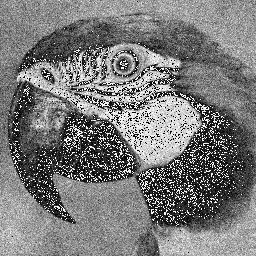
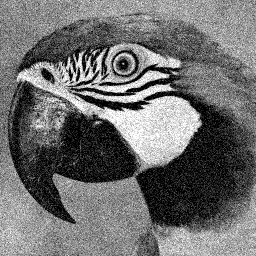
fix: clip image value before saving the noisy image

diff --git a/tests/visualize_output.py b/tests/visualize_output.py
@@ -33,9 +33,10 @@ def read_noise_file(file_path):
     # de-quantization
     # Note: the de-quantized image will be a little bit different from the original noise image
     image_np = (image_np.astype(np.float32) - INPUT_ZERO_POINT) * INPUT_SCALE
+    image_np = np.clip(image_np, 0.0, 1.0)
 
     # Save the noise image
-    Image.fromarray((image_np * 255).astype(np.uint8), mode="L").save(NOISE_IMAGE_PATH)
+    Image.fromarray((image_np * 255).round().astype(np.uint8), mode="L").save(NOISE_IMAGE_PATH)
 
     return image_np
 
